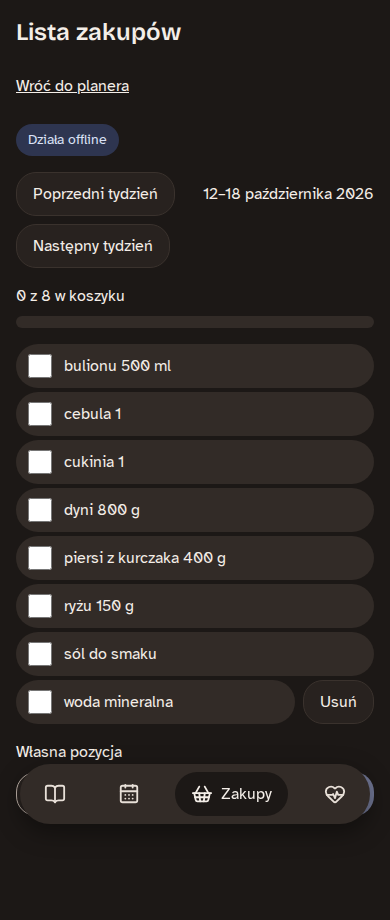
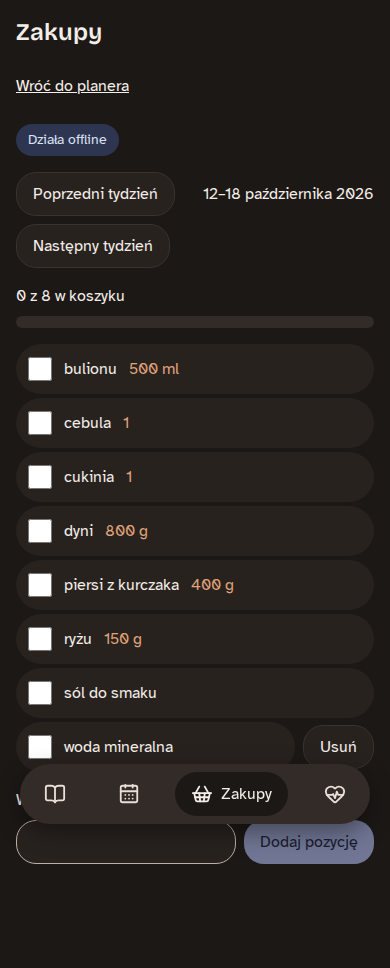
fix: shopping row per visual design (surface, 50 px, primary checkbox, accent quantity), heading "Zakupy"

diff --git a/tests/e2e/s20-shopping.spec.ts b/tests/e2e/s20-shopping.spec.ts
@@ -32,7 +32,7 @@ async function openList(page: Page) {
     await expect(planner).toBeVisible({ timeout: 2000 });
   }).toPass();
   await page.getByRole('link', { name: 'Lista zakupów' }).click();
-  await expect(page.getByRole('heading', { level: 1, name: 'Lista zakupów' })).toBeVisible();
+  await expect(page.getByRole('heading', { level: 1, name: 'Zakupy' })).toBeVisible();
 }
 
 const item = (page: Page, name: string) => page.getByRole('checkbox', { name, exact: true });
@@ -204,7 +204,7 @@ test.describe('S20: lista zakupów z planera', () => {
 
     await page.getByRole('link', { name: 'Zakupy', exact: true }).click();
 
-    await expect(page.getByRole('heading', { level: 1, name: 'Lista zakupów' })).toBeVisible();
+    await expect(page.getByRole('heading', { level: 1, name: 'Zakupy' })).toBeVisible();
     await expect(page.getByText('12–18 października 2026')).toBeVisible();
     await expect(page).toHaveURL(/\/zakupy$/);
   });
@@ -218,7 +218,7 @@ test.describe('S20: lista zakupów z planera', () => {
 
     await page.getByRole('link', { name: /lista zakupów/i }).click();
 
-    await expect(page.getByRole('heading', { level: 1, name: 'Lista zakupów' })).toBeVisible();
+    await expect(page.getByRole('heading', { level: 1, name: 'Zakupy' })).toBeVisible();
     await expect(page.getByText('19–25 października 2026')).toBeVisible();
   });
 
@@ -268,6 +268,53 @@ test.describe('S20: lista zakupów z planera', () => {
     await expect(page.getByRole('progressbar')).toHaveAttribute('aria-valuenow', '0');
   });
 
+  test('S20: wiersz pozycji ma tło „surface”, co najmniej 50 px, pole wyboru w „primary” i ilość w „accent”', async ({
+    page,
+    request,
+  }) => {
+    await openApp(page, request);
+    const soup = await seedRecipe(page, {
+      title: 'Zupa dyniowa',
+      servings: 1,
+      ingredients: ['200 g dyni'],
+    });
+    await plan(page, soup, '2026-10-14', 1);
+    await page.reload();
+    await openList(page);
+
+    const row = page.getByRole('list', { name: 'Do kupienia' }).getByRole('listitem').first();
+    const label = row.locator('label');
+    const styles = await page.evaluate(() => {
+      const resolve = (token: string, property: 'color' | 'backgroundColor') => {
+        const probe = document.createElement('i');
+        probe.style[property] = `var(${token})`;
+        document.body.append(probe);
+        const value = getComputedStyle(probe)[property];
+        probe.remove();
+        return value;
+      };
+      const label = document.querySelector('[aria-label="Do kupienia"] label')!;
+      const checkbox = label.querySelector('input')!.getBoundingClientRect();
+      return {
+        surface: resolve('--surface', 'backgroundColor'),
+        accent: resolve('--accent', 'color'),
+        primary: resolve('--primary', 'color'),
+        background: getComputedStyle(label).backgroundColor,
+        quantity: getComputedStyle(label.querySelector('[data-testid="shopping-quantity"]')!).color,
+        accentColor: getComputedStyle(label.querySelector('input')!).accentColor,
+        height: label.getBoundingClientRect().height,
+        checkbox: [checkbox.width, checkbox.height],
+      };
+    });
+
+    expect(styles.background).toBe(styles.surface);
+    expect(styles.quantity).toBe(styles.accent);
+    expect(styles.accentColor).toBe(styles.primary);
+    expect(styles.height).toBeGreaterThanOrEqual(50);
+    expect(styles.checkbox).toEqual([24, 24]);
+    await expect(label).toContainText('dyni 200 g');
+  });
+
   test('S20: lista pokazuje plakietkę „Działa offline”', async ({ page, request }) => {
     await openApp(page, request);
     await page.goto('/zakupy');
@@ -296,7 +343,7 @@ test.describe('S20: lista zakupów z planera', () => {
     await page.mouse.click(box.x + box.width - 6, box.y + box.height / 2);
 
     await expect(bought(page).getByRole('checkbox', { name: 'ogórek 1' })).toBeChecked();
-    await expect(bought(page).getByText('ogórek 1')).toHaveCSS(
+    await expect(bought(page).getByText('ogórek', { exact: true })).toHaveCSS(
       'text-decoration-line',
       'line-through',
     );
@@ -328,7 +375,7 @@ test.describe('S20: lista zakupów z planera', () => {
       'pomidor 1',
       'rzodkiewka 1',
     ]);
-    await expect(toBuy(page).getByText('ogórek 1')).toHaveCount(0);
+    await expect(toBuy(page).getByText('ogórek', { exact: true })).toHaveCount(0);
     // The tick is kept on the account: it survives a reload.
     await expect.poll(async () => (await serverChecks(page)).length).toBe(1);
     await page.reload();
@@ -425,7 +472,7 @@ test.describe('S20: lista zakupów z planera', () => {
     await goOffline(context, page);
     await page.goto('/zakupy');
 
-    await expect(page.getByRole('heading', { level: 1, name: 'Lista zakupów' })).toBeVisible();
+    await expect(page.getByRole('heading', { level: 1, name: 'Zakupy' })).toBeVisible();
     await expect(toBuy(page).getByRole('checkbox', { name: 'ogórek 1' })).not.toBeChecked();
     await expect(toBuy(page).getByRole('checkbox', { name: 'sznurek' })).not.toBeChecked();
     await expect(bought(page).getByRole('checkbox', { name: 'pomidor 1' })).toBeChecked();

diff --git a/src/client/screens/ShoppingScreen.tsx b/src/client/screens/ShoppingScreen.tsx
@@ -32,6 +32,7 @@ function Row({ row, week }: { row: ShoppingRow; week: string }) {
   const { changeSaved, checkItem } = useCollection();
   const { run, retry, busy, errorCode } = useAction();
   const text = formatShoppingItem(row);
+  const quantity = text.slice(row.name.length).trim();
 
   const toggle = () =>
     void checkItem({
@@ -52,14 +53,24 @@ function Row({ row, week }: { row: ShoppingRow; week: string }) {
   return (
     <li className="flex flex-col gap-1">
       <div className="flex items-center gap-2">
-        <label className="flex min-h-11 flex-1 cursor-pointer items-center gap-3 rounded-lg bg-surface-muted px-3 py-2">
+        <label className="flex min-h-row flex-1 cursor-pointer items-center gap-3 rounded-lg bg-surface px-3 py-2">
           <input
             type="checkbox"
             checked={row.checked}
             onChange={toggle}
-            className="size-6 shrink-0"
+            className="size-6 shrink-0 accent-primary"
           />
-          <span className={row.checked ? 'text-ink-muted line-through' : ''}>{text}</span>
+          <span className={row.checked ? 'text-ink-muted line-through' : 'text-ink'}>
+            {row.name}
+          </span>
+          {quantity ? (
+            <>
+              {' '}
+              <span data-testid="shopping-quantity" className="text-accent">
+                {quantity}
+              </span>
+            </>
+          ) : null}
         </label>
         {row.custom ? (
           <Button
@@ -190,7 +201,7 @@ export function ShoppingScreen() {
 
   return (
     <section className="flex flex-col gap-4">
-      <h1 className="text-2xl font-semibold">Lista zakupów</h1>
+      <h1 className="text-2xl font-semibold">Zakupy</h1>
       <Link
         to={week === currentWeek ? '/planer' : `/planer?${WEEK_PARAM}=${week}`}
         className="inline-flex min-h-11 items-center self-start underline"

diff --git a/tests/e2e/s27-navigation.spec.ts b/tests/e2e/s27-navigation.spec.ts
@@ -104,7 +104,7 @@ test.describe('S27: nawigacja', () => {
     expect(await activeItem(page)).toBe('Planer');
 
     await nav.getByRole('link', { name: 'Zakupy', exact: true }).click();
-    await expect(page.getByRole('heading', { level: 1, name: 'Lista zakupów' })).toBeVisible();
+    await expect(page.getByRole('heading', { level: 1, name: 'Zakupy' })).toBeVisible();
     expect(new URL(page.url()).pathname + new URL(page.url()).search).toBe('/zakupy');
 
     await nav.getByRole('link', { name: 'Zdrowie', exact: true }).click();

diff --git a/tests/e2e/screens.ts b/tests/e2e/screens.ts
@@ -181,7 +181,7 @@ export const SCREENS: readonly Screen[] = [
     await expect(page.getByRole('heading', { level: 2, name: 'krok 1 z 3' })).toBeVisible();
   }),
   simple('planer', '/planer', 'Planer'),
-  simple('zakupy', `/zakupy?tydzien=${WEEK_START}`, 'Lista zakupów'),
+  simple('zakupy', `/zakupy?tydzien=${WEEK_START}`, 'Zakupy'),
   simple('szukaj', '/szukaj', 'Szukaj w serwisach'),
   simple('kolekcje', '/kolekcje', 'Kolekcje własne'),
   simple('ustawienia', '/ustawienia', 'Ustawienia'),

diff --git a/src/client/styles.css b/src/client/styles.css
@@ -136,6 +136,7 @@ html[data-theme='dark'] {
   --shadow-card: 0 1px 2px rgb(43 35 32 / 0.06);
 
   --spacing-touch: 44px;
+  --spacing-row: 50px;
   --spacing-action: 60px;
   --spacing-cook-button: 76px;
 }
